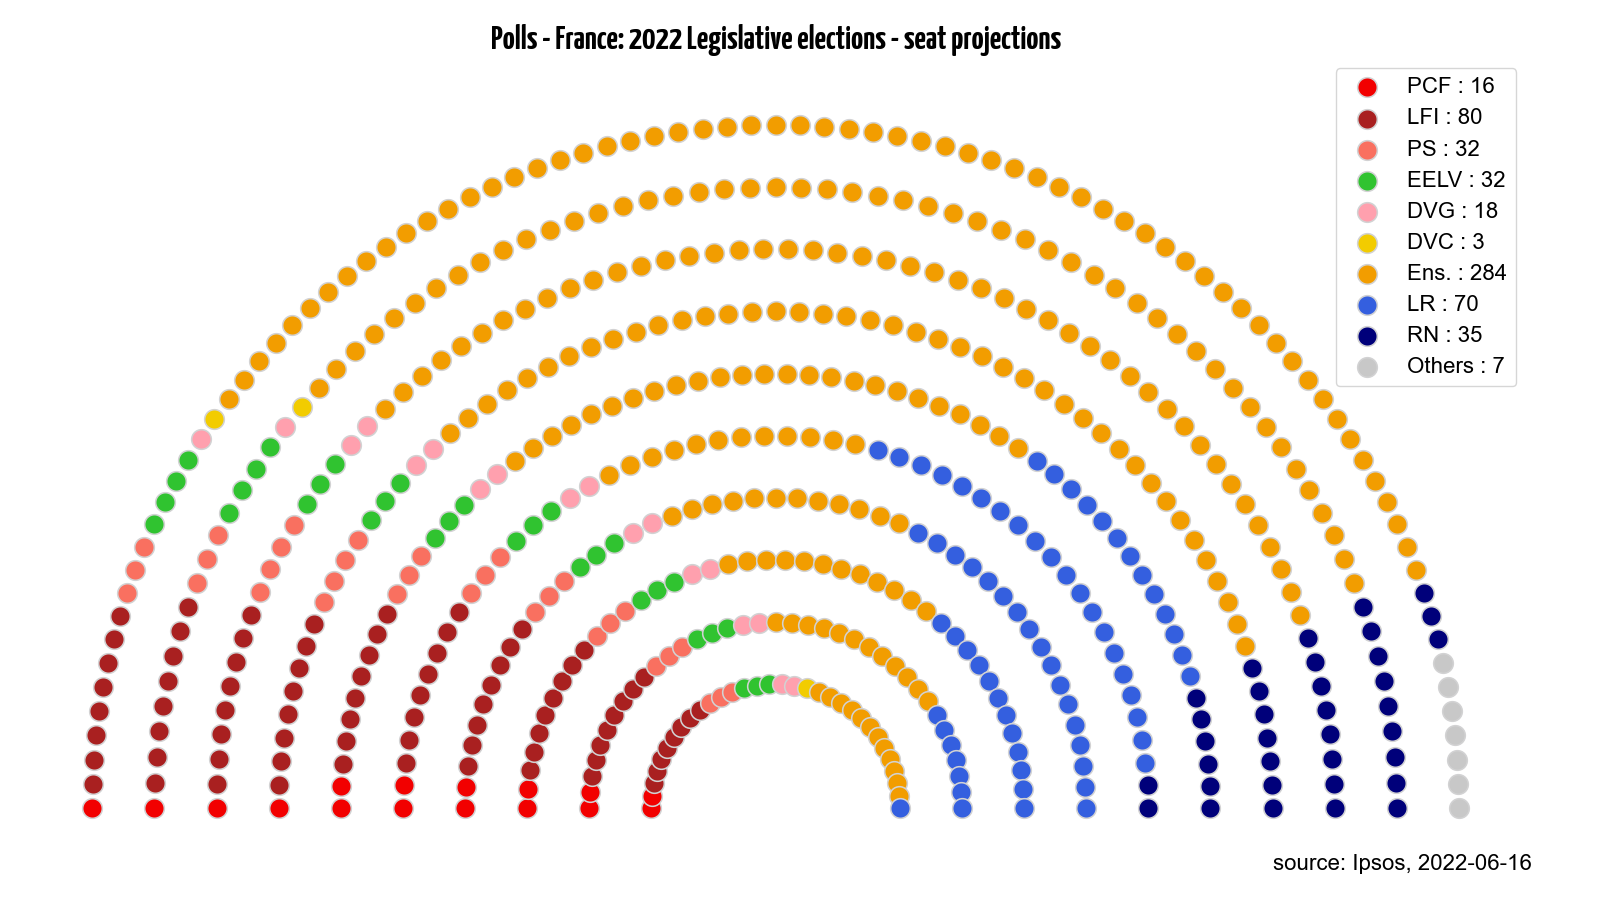
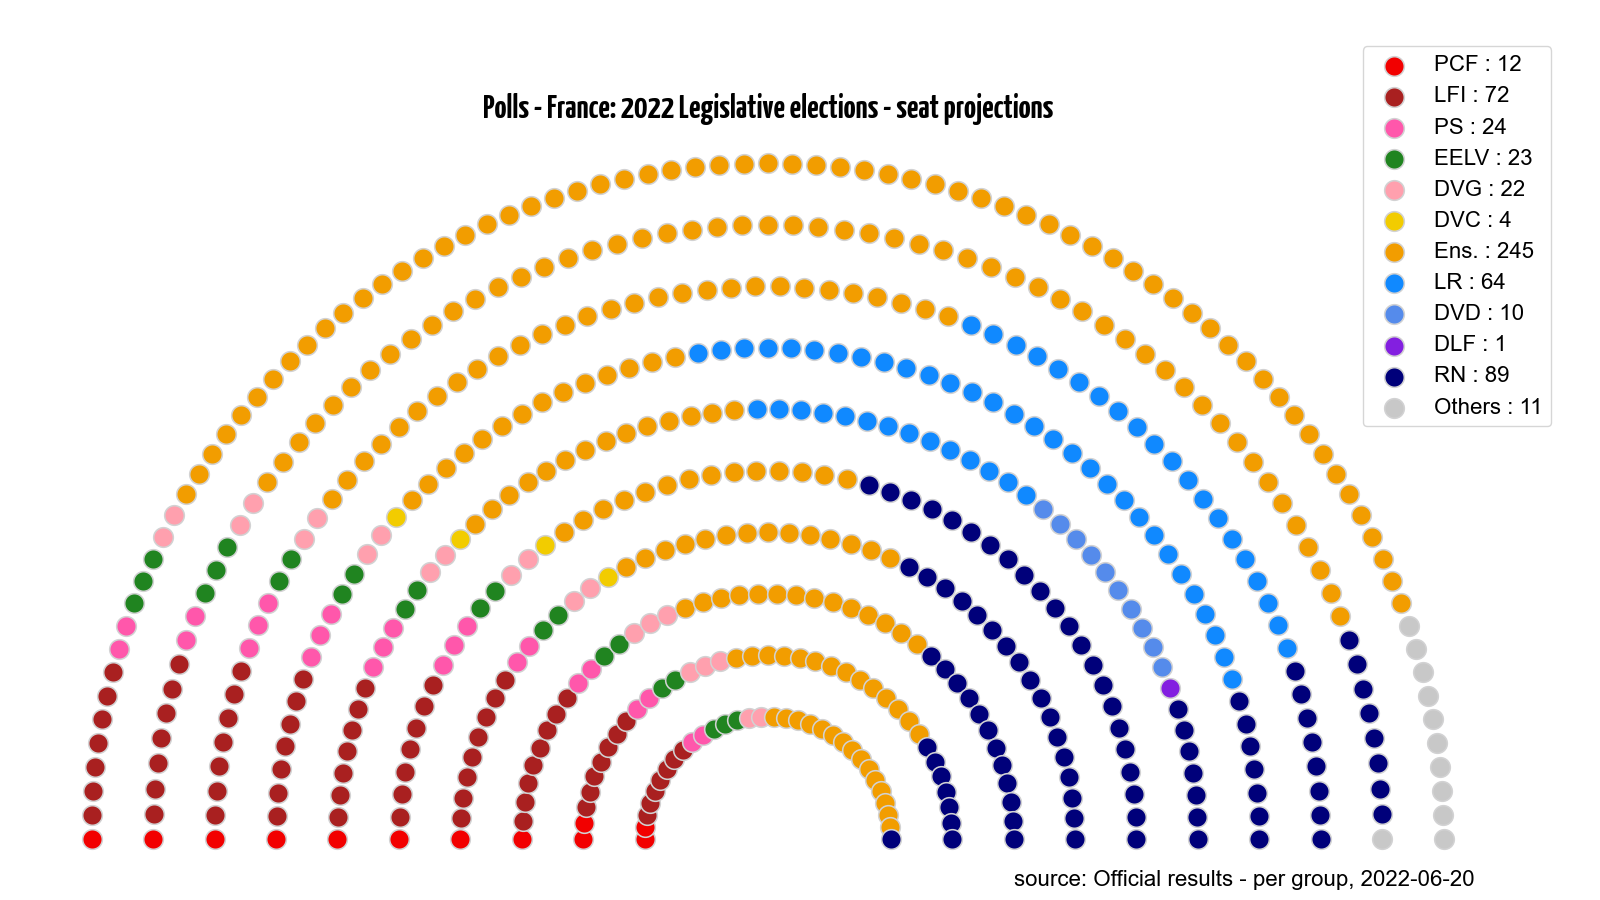
changed projection to final results

Changed region(s): [[0.0312, 0.0622, 0.9688, 0.9956], [0.3125, 0.0311, 0.6562, 0.0622]]

diff --git a/assembly_seatProjection.py b/assembly_seatProjection.py
@@ -1,5 +1,5 @@
-#! ./envs/bin/python3
-# -*-coding: utf-8-*-
+#! /usr/bin/env python3
+# -*- coding: utf-8 -*-
 
 import pandas as pd
 import matplotlib as mpl
@@ -7,7 +7,8 @@ import poli_sci_kit
 import json
 from styles import *
 
-df = pd.read_csv('data.csv', header=0, index_col=['Polling firm', 'Date'],
+df = pd.read_csv('data/polls/seatProjections.csv',
+                 header=0, index_col=['Polling firm', 'Date'],
                  parse_dates=['Date'])
 with open('group_colors.json', 'r') as color_file:
     colors = json.load(color_file)
@@ -15,8 +16,8 @@ with open('group_colors.json', 'r') as color_file:
 poll = df.groupby(['Date','Polling firm']).mean()
 poll = poll.apply(lambda x: round(x / poll.sum(axis=1) * 577, 0))
 
-Date = "2022-06-16"
-Pollster = "Ipsos"
+Date = "2022-06-20"
+Pollster = "Official results - per group"
 
 SPLIT_NUPES = True
 
@@ -71,8 +72,8 @@ if __name__ == "__main__":
         axis=ax)
 
     ax.legend(["{g} : {s}".format(g=group, s=seat)
-            for group, seat in zip(parl_group, seat_alloc)])
-    ax.text(figsize[0] * .5, -1, 'source: {p}, {d}'.format(p=Pollster, d=Date))
+            for group, seat in zip(parl_group, seat_alloc)], loc=(.9,.6))
+    ax.text(figsize[0]*.25, -.75, 'source: {p}, {d}'.format(p=Pollster, d=Date))
     ax.set_title("Polls - France: 2022 Legislative elections - seat projections",
                  **title_font)
 

diff --git a/README.md b/README.md
@@ -2,7 +2,7 @@ Election dates:
 * 1st round: June 12th 2022
 * 2nd round: June 19th 2022
 
-# Lattest poll: French National Assembly: Projection in seats
+# Official results after 2nd round: French National Assembly projection in seats
 
 ![National assembly projection](Figure_1.png "Polls - France: 2022 Legislative elections - seat projections")
 
